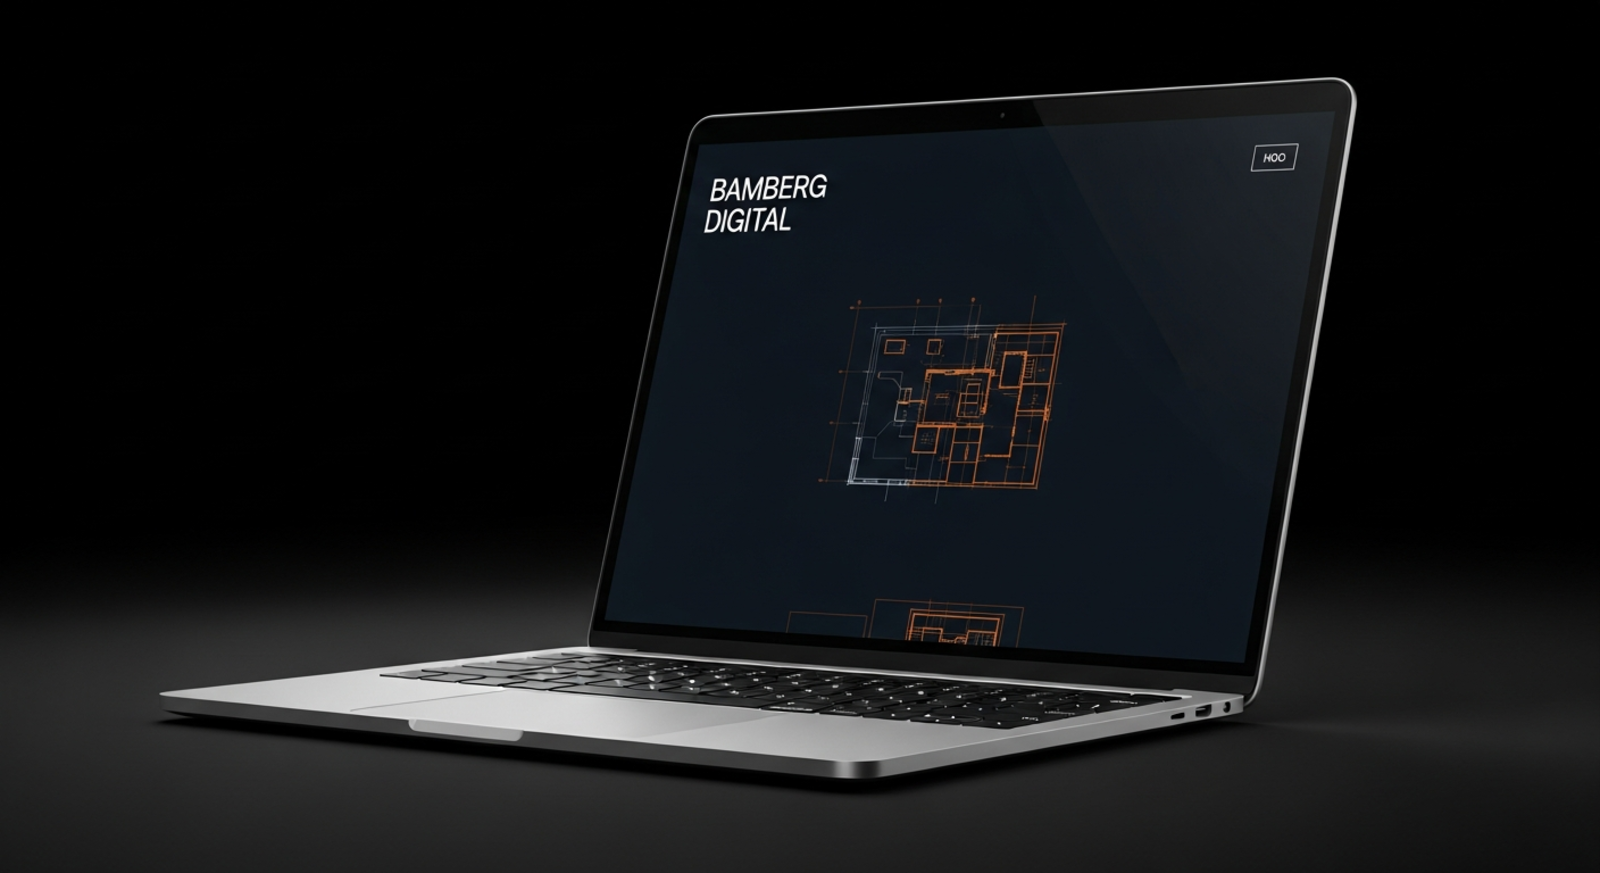
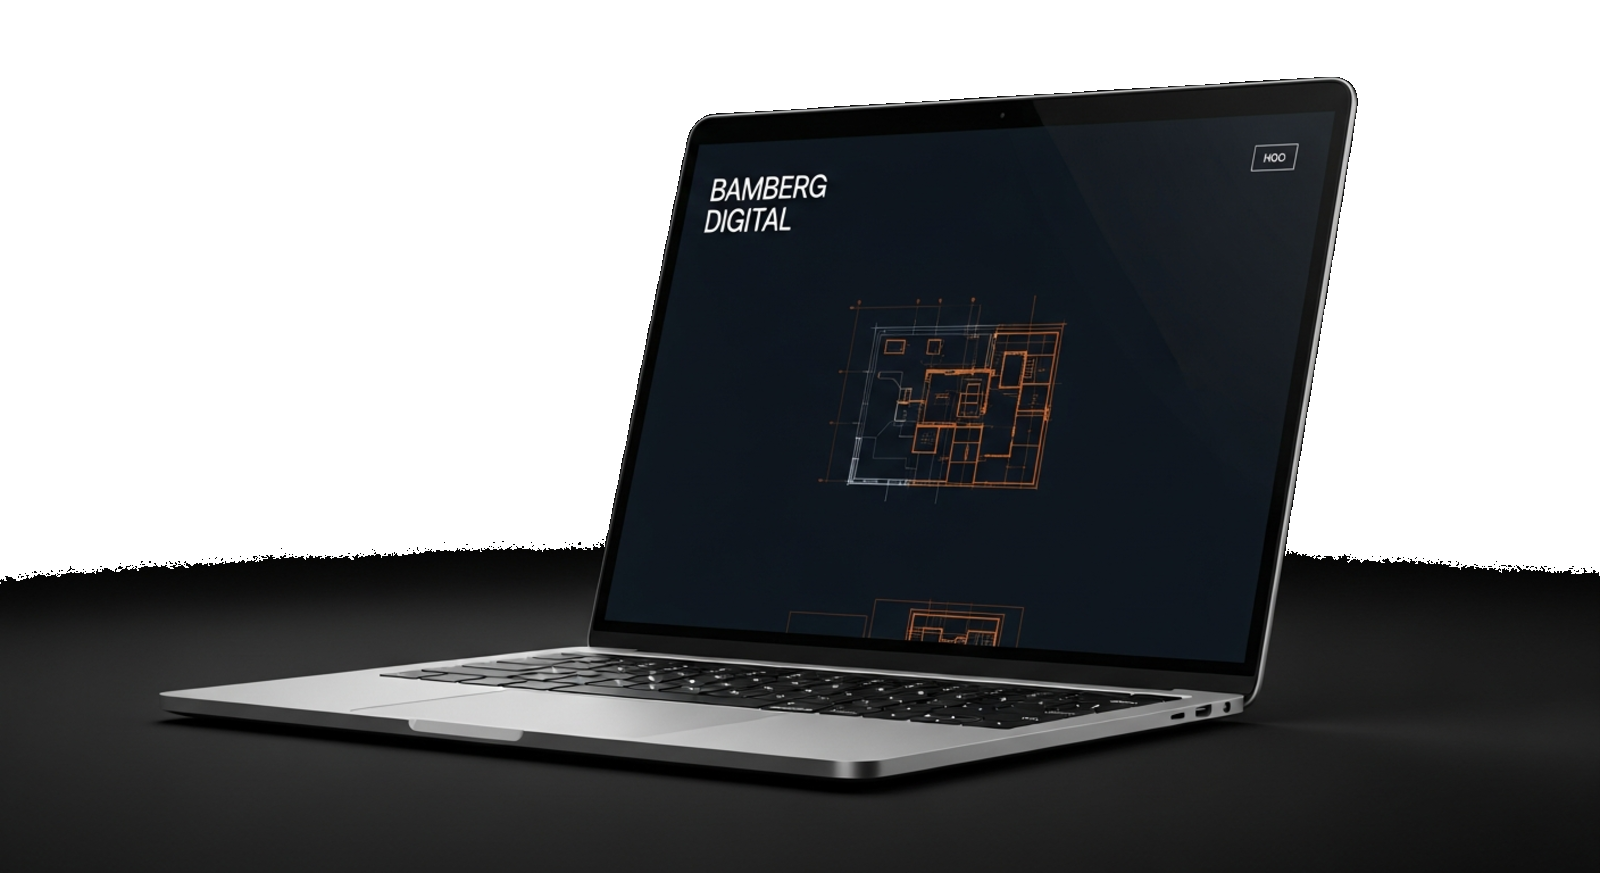
fix: transparent laptop png + simpler animation
Replace black-bg PNG with RGBA transparent version (flood-fill black
from corners, preserving dark screen content). Simplify laptop-open
animation: drop rotateX 3D transform, use fade + translateY only.
Eliminates potential 3D rendering issues in headless contexts.

diff --git a/src/app/globals.css b/src/app/globals.css
@@ -67,15 +67,11 @@ body {
 @keyframes laptop-open {
   0% {
     opacity: 0;
-    transform: translateY(40px) scale(0.92) rotateX(-22deg);
-  }
-  60% {
-    opacity: 1;
-    transform: translateY(0) scale(1) rotateX(2deg);
+    transform: translateY(40px) scale(0.94);
   }
   100% {
     opacity: 1;
-    transform: translateY(0) scale(1) rotateX(0deg);
+    transform: translateY(0) scale(1);
   }
 }
 @keyframes laptop-float {
